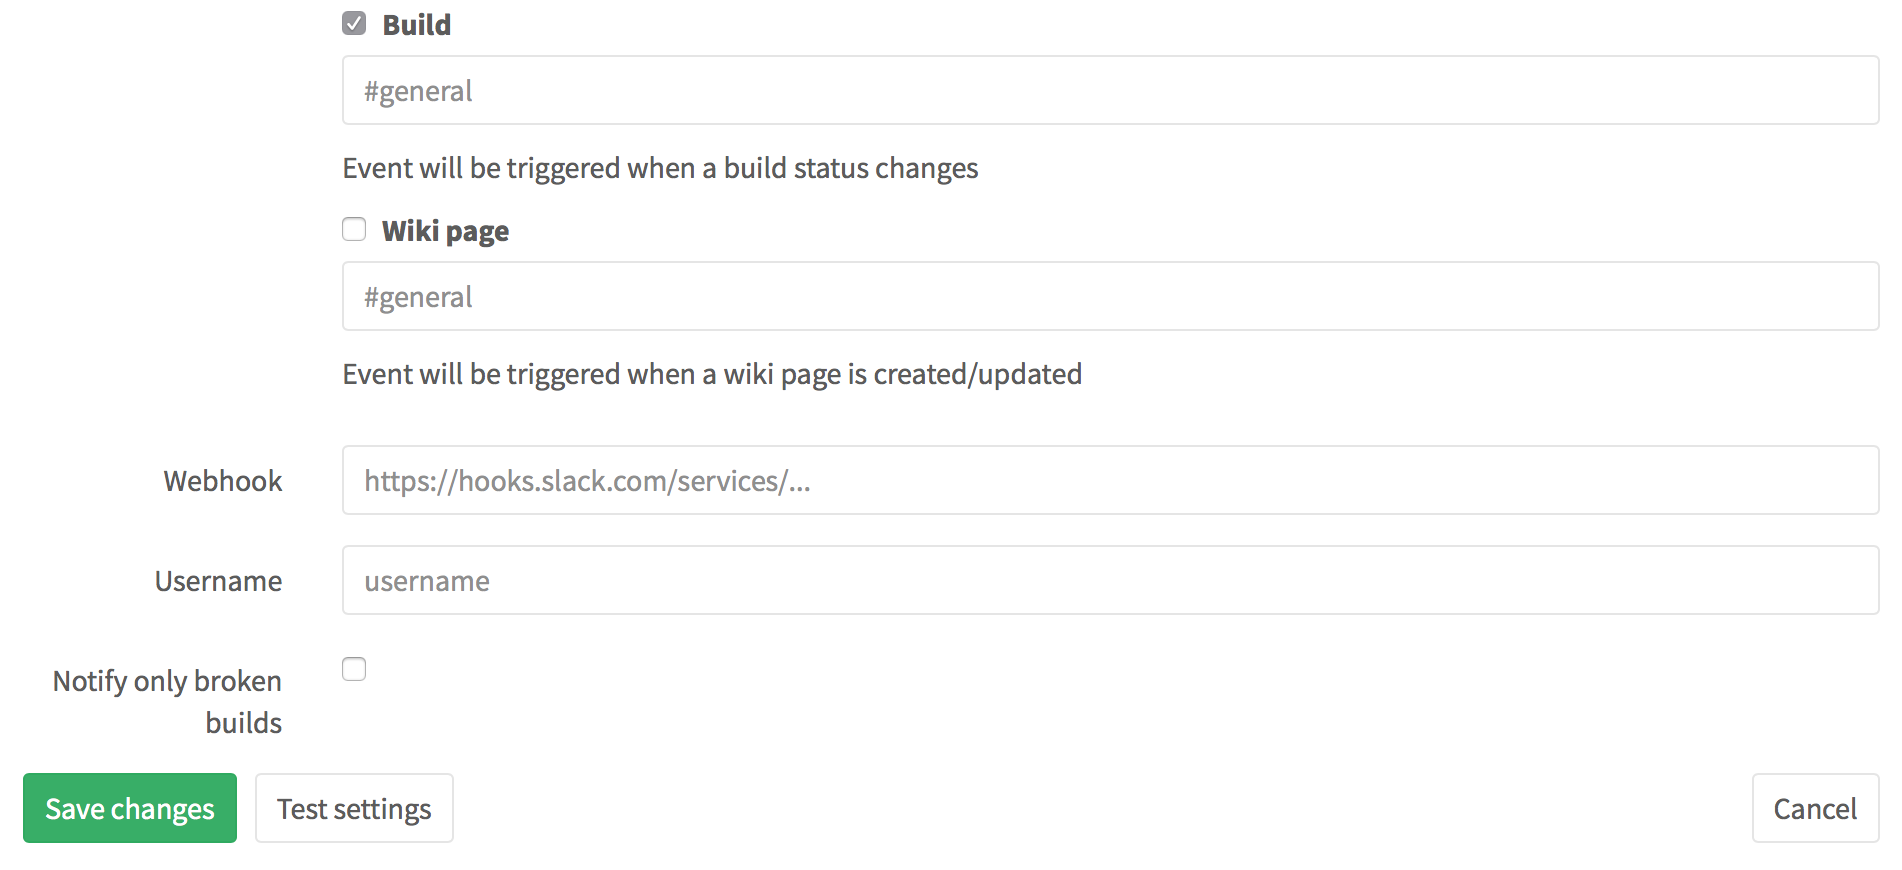
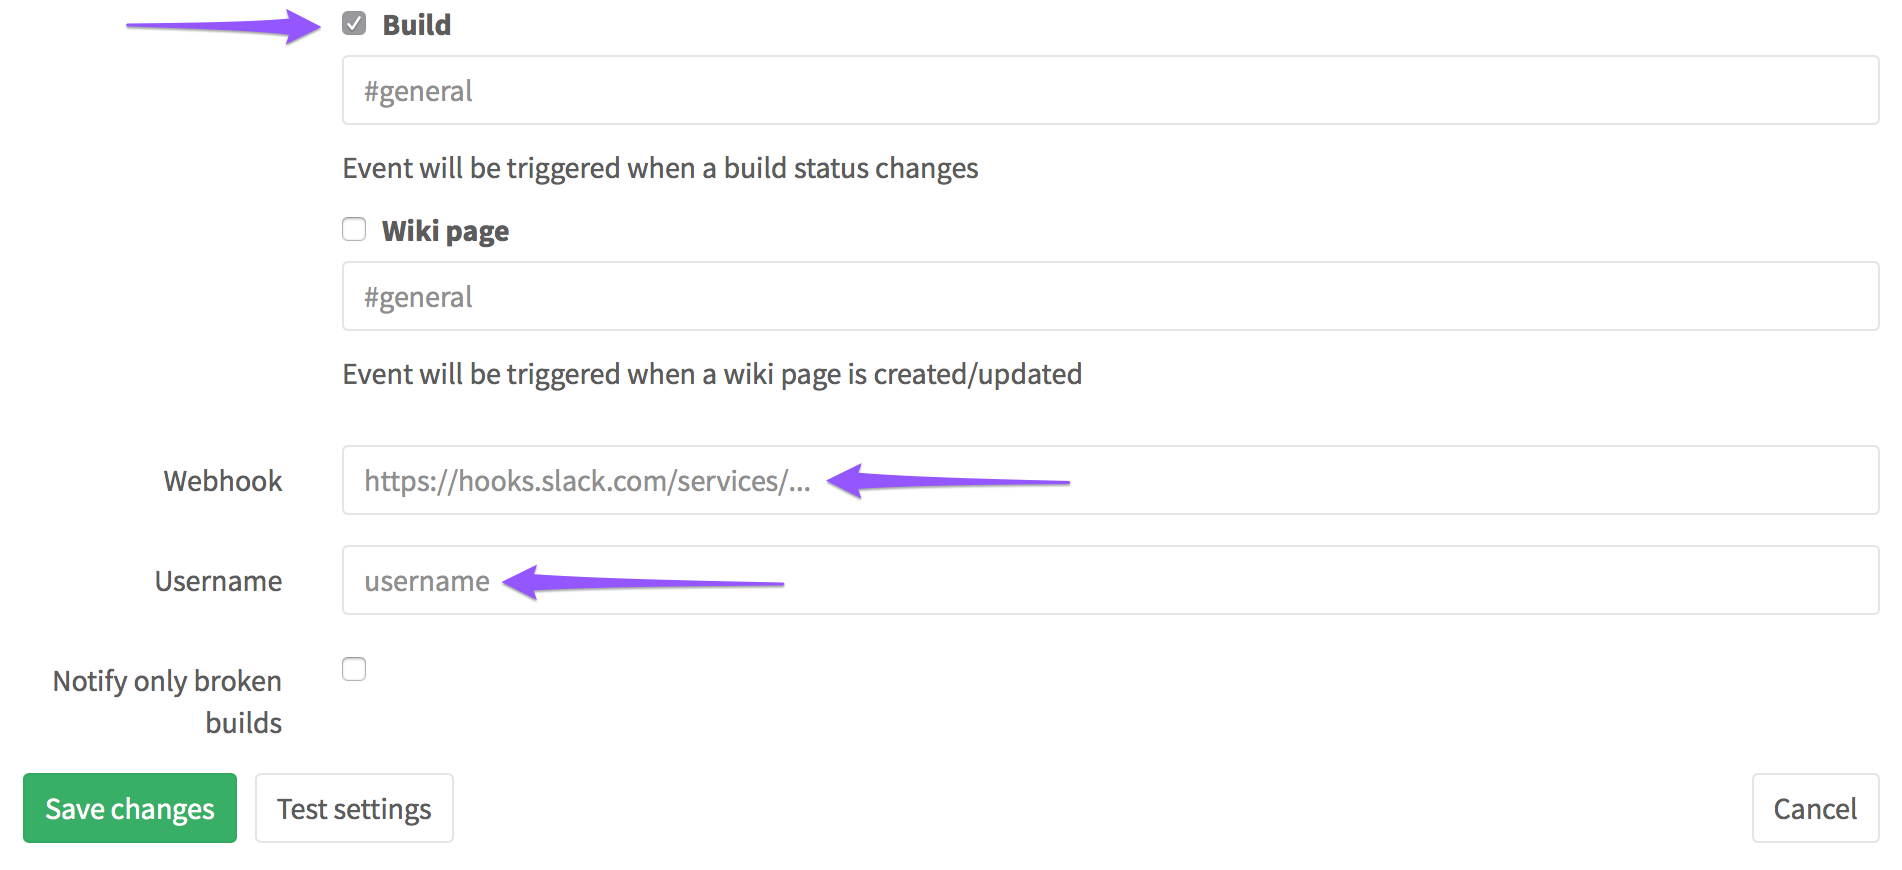
More sections, fixes. +ILLUSTRATIONS!

Changed region(s): [[0.062, 0.0, 0.1861, 0.0621], [0.4343, 0.5276, 0.5584, 0.5897], [0.2482, 0.6517, 0.4033, 0.6828]]

diff --git a/source/posts/2016-08-18-ci-deployment-and-environments.html.md b/source/posts/2016-08-18-ci-deployment-and-environments.html.md
@@ -45,16 +45,12 @@ The full command looks like this:
 aws s3 cp ./ s3://yourbucket/ --recursive --exclude "*" --include "*.html"
 ```
 
+![Manual deployment](/images/blogimages/ci-deployment-and-environments/13.jpg){: .illustration}
+
 Important detail: the command 
 [expects you](http://docs.aws.amazon.com/cli/latest/userguide/cli-chap-getting-started.html#config-settings-and-precedence) 
 to provide ``AWS_ACCESS_KEY_ID` and  `AWS_SECRET_ACCESS_KEY`` environment 
 variables. Also you might need to specify `AWS_DEFAULT_REGION`.
-{: .alert .alert-info}
-
-This is an example of a command used to deliver code to a destination system. 
-No matter what tool and what destination system you use, the principle is more 
-or less the same: you had to run a command with some parameters and somehow pass 
-a secret key or a set of keys for authentication.
 {: .alert .alert-info}
 
 Let’s try to automate it using GitLab CI.
@@ -89,6 +85,8 @@ deploy:
   - pip install awscli
   - aws s3 cp ./ s3://yourbucket/ --recursive --exclude "*" --include "*.html"
 ```
+
+![Automated deployment](/images/blogimages/ci-deployment-and-environments/14.jpg){: .illustration}
 
 The installation of `awscli` extends the job execution time, but it is not a big 
 deal for now. If you'll need speed, you can always [look for
@@ -161,6 +159,9 @@ Whenever you push anything to GitLab, it will be deployed to S3.
 
 Preventing it is straightforward. Just add `only: master` to your “deploy” job.
 
+![Automated deployment of master branch](/images/blogimages/ci-deployment-and-environments/15.jpg){: .illustration}
+
+
 But it would be also nice to preview your changes from feature-branches somehow.
 
 
@@ -175,6 +176,9 @@ To [host something on GitLab Pages](https://about.gitlab.com/2016/04/07/gitlab-p
 - the job should be named “pages”
 - there should be an `artifacts` section with folder “public” in it
 - everything you want to host should be in this “public” folder
+
+The contents of public folder will be hosted at http://<username>.gitlab.io/<projectname>/
+{: .alert .alert-info}
 
 After applying the [example config for plain-html websites](https://gitlab.com/pages/plain-html/blob/master/.gitlab-ci.yml),
  full CI configuration looks like this:
@@ -203,14 +207,16 @@ pages:
   - master
 ```
 
+We specified two jobs. One job deploys the website for your customers to S3.
 
-We specified two jobs. One job deploys the website for your customers to S3. 
+![Deployment to two places](/images/blogimages/ci-deployment-and-environments/16.jpg){: .illustration}
+
 Another - for developers to GitLab Pages.
 
 Actually some people would name it Production environment and Staging environment.
 
 
-## Figuring out what is Environments
+## Introducing Environments
 
 It looks like GitLab has 
  [support for environments](http://docs.gitlab.com/ee/ci/environments.html#environments),
@@ -242,13 +248,12 @@ pages:
   - master
 ```
 
-Now GitLab keeps track of what is deployed where:
+![Environments](/images/blogimages/ci-deployment-and-environments/17.jpg){: .illustration}
 
-![List of environments](/images/blogimages/ci-deployment-and-environments/environments.png){: .shadow}
 
-Also you can see whole history of your deployments per environment:
+![List of environments](/images/blogimages/ci-deployment-and-environments/environments.png){: .shadow}*GitLab keeps track of what is deployed where*
 
-![List of deployments to staging environment](/images/blogimages/ci-deployment-and-environments/staging.png){: .shadow}
+![List of deployments to staging environment](/images/blogimages/ci-deployment-and-environments/staging.png){: .shadow}*The whole history of your deployments per environment*
 
 Now when everything is automated and set up, we’re ready for new challenges just around the corner.
 
@@ -268,25 +273,27 @@ Seting up Slack notifications is a [straightforward process](http://docs.gitlab.
 The whole idea is to take Incoming WebHook URL from Slack... 
 ![Grabbing Incoming WebHook URL in Slack](/images/blogimages/ci-deployment-and-environments/incoming-webhook.png){: .shadow}
 
-...and put it into **Settings → Services → Slack** together with your Slack nickname:
+...and put it into **Settings → Services → Slack** together with your Slack username:
 ![Configuring Slack Service in GitLab](/images/blogimages/ci-deployment-and-environments/services-slack.png){: .shadow}
 
-We only care about deploy, so uncheck all the checkboxes, except “Build” in the 
+Since you only care about deploy, you can uncheck all the checkboxes, except the “Build” in the 
 settings above. That’s it. Now you’re notified of every deployment:
 
 ![Deployment notifications in Slack](/images/blogimages/ci-deployment-and-environments/slack.png){: .shadow}
 
+But the time goes, your website became really popular, your team grow from 2 to 8 people. 
+People develop in parallel, so the situation when people wait for each other to 
+preview something on Staging become pretty common. “Deploy every branch to staging” stopped to work.
 
 
+![TODO](Image of queue)
 
+It is time to modify the process one more time.
 
-Your website became popular, and you had to hire more developers.
+## Teamwork at scale
 
-The problems is that “Deploy every branch to staging” strategy is not working anymore.
-
-You solved the problem by changing your process. You agreed that if someone 
-wants to see his changes on the staging server, he should first merge the 
-changes to “staging” branch.
+You and your team agreed that if someone wants to see his changes on the staging 
+server, he should first merge the changes to the “staging” branch.
 
 Regarding CI configuration, the change is minimal:
 
@@ -299,26 +306,128 @@ is now changed to
 
 ```yaml
 only:
-- develop
+- staging
 ```
 
+![Staging branch](/images/blogimages/ci-deployment-and-environments/18.jpg){: .illustration}
+
+Of course, it requires additional time & efforts for merging, but everybody ageed that it is better than waiting.
 
 ### Handling emergencies
 
-Shit happens! And it happened to your website. One junior overlooked bug and 
-pushed it straight to production. Exactly when your site was on top of HackerNews,
-so thousands of people saw completely broken layout instead of your shiny main page.
+Shit happens! And it's happened to your website. Someone merged branches incorrectly and 
+pushed the result straight to production exactly when your site was on top of HackerNews.
+Thousands of people saw your completely broken layout instead of shiny main page.
 
-Luckily, someone found Rollback button, and deployed the previous version, so the 
-website was fixed a minute after the problem have been discovered.
+Luckily, someone found the Rollback button, so the 
+website was fixed a minute after the problem had been discovered.
 
-![List of environments](/images/blogimages/ci-deployment-and-environments/rollback-arrow.png){: .shadow}
+![List of environments](/images/blogimages/ci-deployment-and-environments/rollback-arrow.png){: .shadow}*Rollback relaunches the previous job with the previous commit*
 
-Rollback just relaunches the same job with the same commit.
+Anyway, you felt that you needed to react to the problem: you decided to turn off 
+auto deploy to production and switch to manual deployment. 
+To do that, you needed to add `when: manual` to your job.
 
-Anyhow, you need to react to the problem. So you decide to turn off auto deploy 
-to production. To switch to manual deployment you need to add `when: manual` to your job.
-
-Whenever you feel safe to deploy, go to **Pipelines→Builds**, and click the button:
+As you can expect, there will be no automatic deployment to Production after that. 
+To deploy manually go to **Pipelines→Builds**, and click the button:
 
 ![Skipped job is available for manual launch](/images/blogimages/ci-deployment-and-environments/skipped.png){: .shadow}
+
+This is where our main story ends. The future is blurry yet. Let's summarize 
+everything we've learned, and then try to predict the future.
+
+
+## Summary
+
+1. Deployment is just a command (or a set of commands) needed to be executed regularly, therefore it run inside GitLab CI
+2. Commonly you need to provide some secret key(s) to the command, you execute. Store these secret keys in Settings→Variables 
+3. With GitLab CI you can flexibly specify which branchs where to deploy
+4. If you deploy in multiple environments, GitLab can save the history of deployments, 
+which gives you the ability to rollback to any previous version
+5. For critical parts of your infrastructure you can enable manual deployment from GitLab interface, instead of automated
+
+
+## Future branch #1: Deploying to different services
+
+In the real life, we're not limited with S3 and GitLab Pages. We host, and therefore, 
+deploy our apps and packages to different services. 
+
+`awscli` was just an example of a command used to deliver code to an example 
+service (Amazon S3). 
+But no matter what tool and what destination system you use, the principle is the same: 
+you run a command with some parameters and somehow pass a secret key or 
+a set of keys for authentication purposes.
+
+
+The `dpl` deployment tool was utilizes this principle, and provides more or less 
+unified interface for [this list of providers](https://github.com/travis-ci/dpl#supported-providers).
+
+Here's how production deployment job would look like, if we use `dpl`:
+
+```yaml
+variables:
+  S3_BUCKET_NAME: "yourbucket"
+
+deploy to production:
+  environment: production
+  image: ruby:latest
+  script:
+  - gem install dpl
+  - dpl --provider=s3 --bucket=S3_BUCKET_NAME
+  only: 
+  - master
+```
+
+If you deploy to different systems, of change destination platform frequently, consider
+using `dpl`.
+
+
+## Future branch #2: Review apps
+
+If the number of collaborators keeps growing, then the next logical step would be 
+to raise a temporary instance of the application for review. Our application let
+us to do that pretty straightforward:
+
+```yaml
+variables:
+  PRODUCTION_S3_BUCKET_NAME: "yourbucket"
+  REVIEW_S3_BUCKET_NAME: "reviewbucket"
+
+image: python:latest
+
+before_script:
+- pip install awscli
+
+deploy to production:
+  environment: production
+  script:
+  - aws s3 cp ./ s3://$PRODUCTION_S3_BUCKET_NAME/ --recursive --exclude "*" --include "*.html"
+  only: 
+  - master
+
+review apps:
+  environment: review  
+  script:
+  - mkdir -p ./$CI_BUILD_REF_NAME
+  - cp ./*.html ./$CI_BUILD_REF_NAME/
+  - aws s3 cp ./ s3://$REVIEW_S3_BUCKET_NAME/ --recursive --exclude "*" --include "*.html"
+```
+
+We set up another bucket on S3 for reviewing purposes. The only difference that 
+we copy the contents of our website to a "folder" named by a name of 
+the development branch, so that the URL looks like this:
+
+`http://<REVIEW_S3_BUCKET_NAME>.s3-website-us-east-1.amazonaws.com/<branchname>/`
+
+The interesting thing is where we got this $CI_BUILD_REF_NAME variable from. 
+GitLab predefines [a lot of environment variables](http://docs.gitlab.com/ce/ci/variables/README.html#predefined-variables-environment-variables), so that you could use them in your jobs.
+
+The details of Review Apps implementation are depend widely on your real technology 
+stack and deployment process, and they are far out of this blog post scope.
+
+Most probably it will not be that straightforward, as it is with our static HTML website. 
+But it is definitely doable, especially if you use Docker, or at least Chef or Ansible.
+
+
+## Keywords description & links
+
